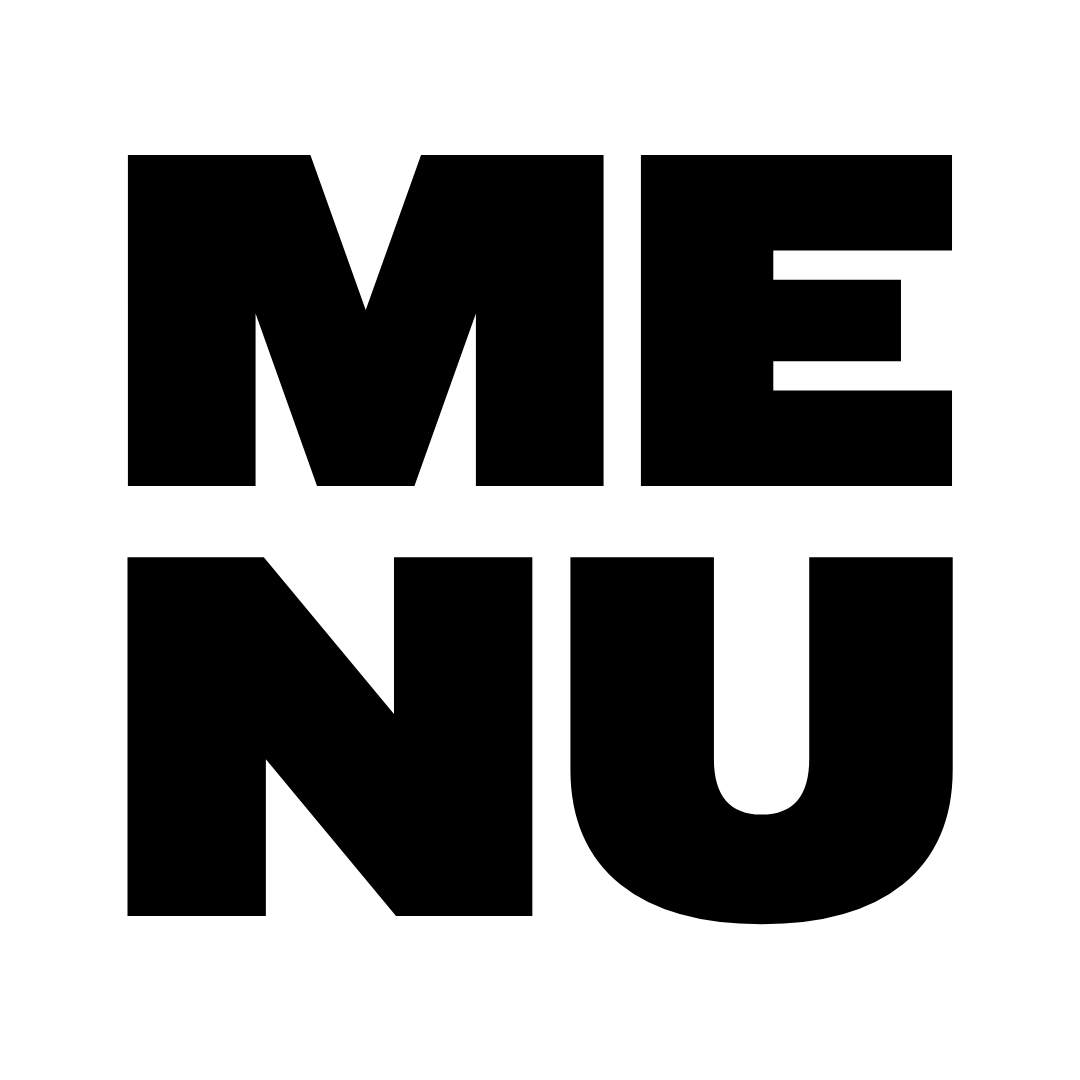
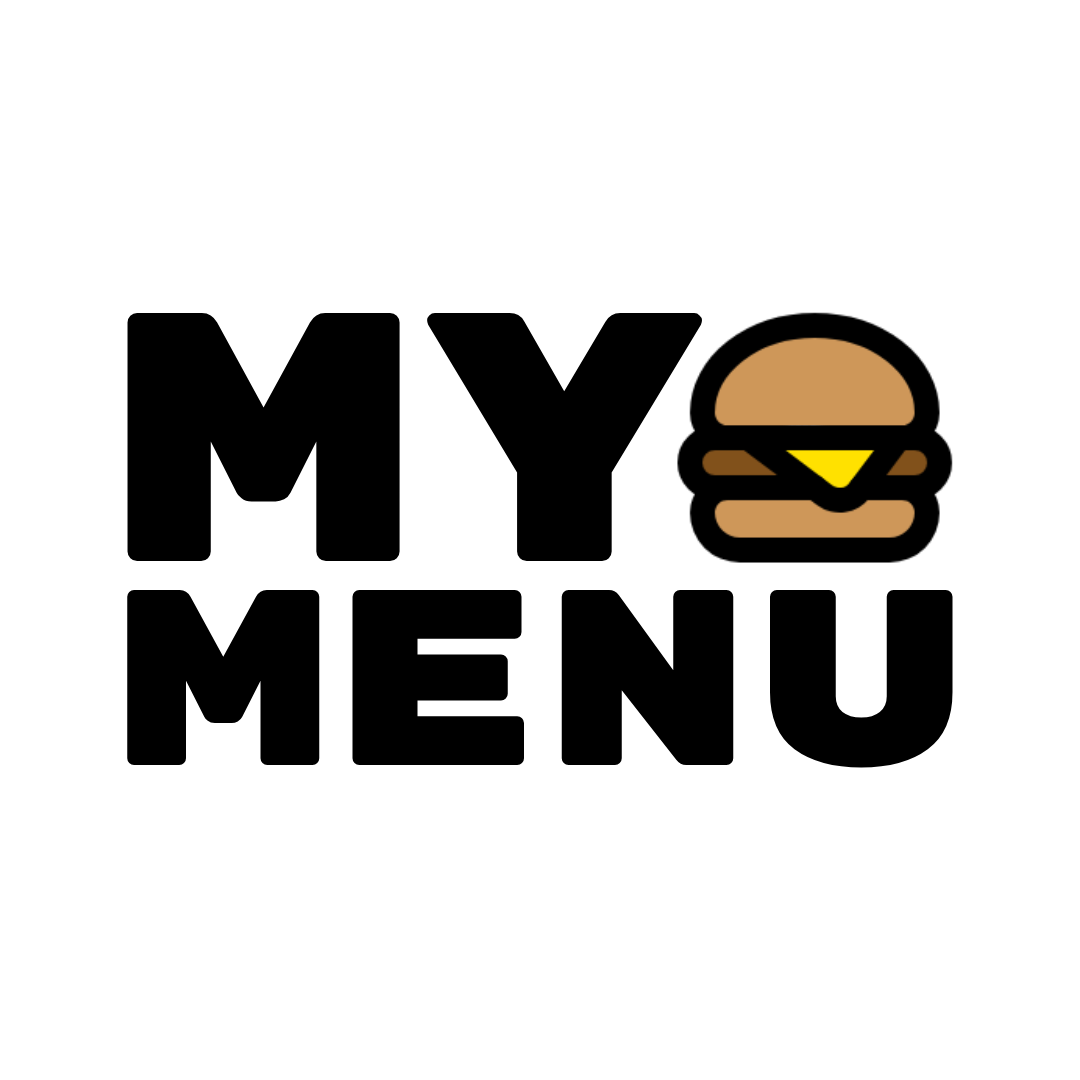
mymenu

diff --git a/src/page/app/mymenu/PrivacyPolicy.vue b/src/page/app/mymenu/PrivacyPolicy.vue
@@ -1,0 +1,132 @@
+<template>
+    <div class="space-y-6">
+        <div class="space-y-2">
+            <h1 class="text-3xl font-bold">MyMenu: Privacy Policy</h1>
+            <p class="text-sm text-zinc-600">Effective Date: <span class="font-medium">04/01/2025</span></p>
+        </div>
+        
+        <div class="p-6 border-2 rounded-lg border-black border-b-4 bg-white">
+            <h2 class="text-xl font-semibold">Introduction</h2>
+            <p class="mt-4 text-zinc-600 leading-relaxed">
+                At MyMenu, we value your privacy and are committed to protecting your data. This Privacy Policy explains how we handle your information and your rights as a user. By using MyMenu, you agree to the practices described below.
+            </p>
+            
+            <h2 class="text-xl font-semibold mt-6">Data Collection</h2>
+            <p class="mt-4 text-zinc-600 leading-relaxed">
+                MyMenu is designed to safeguard your privacy. Here’s an overview of how your data is handled:
+            </p>
+            <ul class="mt-4 space-y-3 text-zinc-600 leading-relaxed list-disc pl-6">
+                <li>
+                    <strong>User Data Storage in iCloud:</strong> All data entered into MyMenu, including transactions, categories, budgets, and settings, is securely stored in your personal <strong>iCloud account</strong>. iCloud ensures that your data is synced across your devices logged into the same Apple ID. MyMenu does not store or access your data outside of iCloud.
+                </li>
+                <li>
+                    <strong>RevenueCat Integration:</strong> MyMenu uses <strong>RevenueCat</strong> to manage in-app purchases and subscriptions. RevenueCat may collect limited data, such as:
+                    <ul class="mt-2 pl-6 list-disc">
+                        <li>Subscription status (e.g., active or expired).</li>
+                        <li>Anonymous app usage events related to purchases.</li>
+                    </ul>
+                    RevenueCat does not collect sensitive personal or financial information. For details, see <a href="https://www.revenuecat.com/privacy" target="_blank" class="text-primary underline">RevenueCat’s Privacy Policy</a>.
+                </li>
+                <li>
+                    <strong>Anonymized Metadata via Apple Metrics:</strong> MyMenu may use Apple’s built-in metrics system to collect anonymized metadata, such as general app usage trends and performance data. This data does not identify individual users and is processed in compliance with Apple’s privacy guidelines.
+                </li>
+            </ul>
+            
+            <h2 class="text-xl font-semibold mt-6">Data Usage</h2>
+            <ul class="mt-4 space-y-3 text-zinc-600 leading-relaxed list-disc pl-6">
+                <li><strong>iCloud Data:</strong> Your financial data is stored exclusively in your iCloud account and is not accessed or transmitted by MyMenu or third parties.</li>
+                <li><strong>RevenueCat Data:</strong> Limited subscription-related data collected by RevenueCat is used to manage and support in-app purchases.</li>
+                <li><strong>Apple Metrics Data:</strong> Anonymized metadata is used solely to improve app performance and user experience.</li>
+            </ul>
+            
+            <h2 class="text-xl font-semibold mt-6">Third-Party Services</h2>
+            <p class="mt-4 text-zinc-600 leading-relaxed">
+                MyMenu integrates with the following third-party services to enhance functionality:
+            </p>
+            <ul class="mt-4 space-y-3 text-zinc-600 leading-relaxed list-disc pl-6">
+                <li><strong>iCloud</strong> for secure storage and syncing of user data.</li>
+                <li><strong>RevenueCat</strong> for managing in-app purchases and subscriptions.</li>
+                <li><strong>Apple’s Metrics System</strong> for collecting anonymized app performance data.</li>
+            </ul>
+            
+            <h2 class="text-xl font-semibold mt-6">Security</h2>
+            <p class="mt-4 text-zinc-600 leading-relaxed">
+                We are committed to safeguarding your data:
+            </p>
+            <ul class="mt-4 space-y-3 text-zinc-600 leading-relaxed list-disc pl-6">
+                <li>Your financial data is securely stored in iCloud, leveraging Apple’s industry-leading security measures.</li>
+                <li>RevenueCat and Apple Metrics comply with global privacy standards to ensure the safety of any data processed.</li>
+            </ul>
+            
+            <h2 class="text-xl font-semibold mt-6">Your Rights</h2>
+            <ul class="mt-4 space-y-3 text-zinc-600 leading-relaxed list-disc pl-6">
+                <li><strong>Control Over Data:</strong> Data stored in iCloud can be managed or deleted directly via your iCloud account. Uninstalling MyMenu from your device will not delete data stored in iCloud.</li>
+                <li><strong>Manage Subscriptions:</strong> Subscriptions can be managed or canceled through your device’s App Store settings.</li>
+                <li><strong>Transparency:</strong> For inquiries regarding subscription management or collected metadata, please contact us or RevenueCat.</li>
+            </ul>
+            
+            <h2 class="text-xl font-semibold mt-6">Changes to This Privacy Policy</h2>
+            <p class="mt-4 text-zinc-600 leading-relaxed">
+                We may update this Privacy Policy to reflect changes in the app, integrations, or applicable laws. Please check this policy periodically for updates.
+            </p>
+            
+            <h2 class="text-xl font-semibold mt-6">Contact Us</h2>
+            <p class="mt-4 text-zinc-600 leading-relaxed">
+                If you have any questions or concerns about this Privacy Policy, please contact us at:  
+                <strong>Email:</strong> <a class="text-primary underline" href="mailto:[email redacted]">[email redacted]</a>
+            </p>
+        </div>
+    </div>
+</template>
+
+<script setup>
+import { useHead } from '@unhead/vue'
+
+useHead({
+    title: 'MyMenu - Privacy Policy - S7',
+    meta: [
+        {
+            name: 'description',
+            content: 'MyMenu Privacy Policy - Learn how we protect your financial data with iCloud storage and secure practices. Your privacy is our priority.'
+        },
+        {
+            name: 'keywords',
+            content: 'MyMenu, privacy policy, data protection, iCloud storage, RevenueCat, finance app privacy'
+        },
+        {
+            property: 'og:title',
+            content: 'MyMenu - Privacy Policy - S7'
+        },
+        {
+            property: 'og:description',
+            content: 'MyMenu Privacy Policy - Learn how we protect your financial data with iCloud storage and secure practices.'
+        },
+        {
+            property: 'og:type',
+            content: 'website'
+        },
+        {
+            property: 'og:url',
+            content: 'https://s7.gg/app/MyMenu/privacy-policy'
+        },
+        {
+            name: 'twitter:card',
+            content: 'summary'
+        },
+        {
+            name: 'twitter:title',
+            content: 'MyMenu - Privacy Policy - S7'
+        },
+        {
+            name: 'twitter:description',
+            content: 'MyMenu Privacy Policy - Learn how we protect your financial data with iCloud storage and secure practices.'
+        }
+    ],
+    link: [
+        {
+            rel: 'canonical',
+            href: 'https://s7.gg/app/MyMenu/privacy-policy'
+        }
+    ]
+})
+</script>

diff --git a/src/main.js b/src/main.js
@@ -7,6 +7,7 @@ import Blog from './page/Blog.vue'
 import BlogPost from './page/BlogPost.vue'
 import BudgetBearPP from './page/app/budgetbear/PrivacyPolicy.vue'
 import GraftPP from './page/app/graft/PrivacyPolicy.vue'
+import MyMenuPP from './page/app/mymenu/PrivacyPolicy.vue'
 import Product from './page/Product.vue'
 
 const routes = [
@@ -16,6 +17,7 @@ const routes = [
     { path: '/app/:id', component: Product, name: 'product', meta: {title: 'View Product'}},
     { path: '/app/budgetbear/privacy-policy', component: BudgetBearPP, name: 'app.budgetbear.privacy-policy', meta: {title: 'BudgetBear - Privacy Policy'}},
     { path: '/app/graft/privacy-policy', component: GraftPP, name: 'app.graft.privacy-policy', meta: {title: 'Graft - Privacy Policy'}},
+    { path: '/app/mymenu/privacy-policy', component: MyMenuPP, name: 'app.mymenu.privacy-policy', meta: {title: 'MyMenu - Privacy Policy'}},
     { path: "/:catchAll(.*)*", component: NotFound, name: 'not-found'}
 ]
 